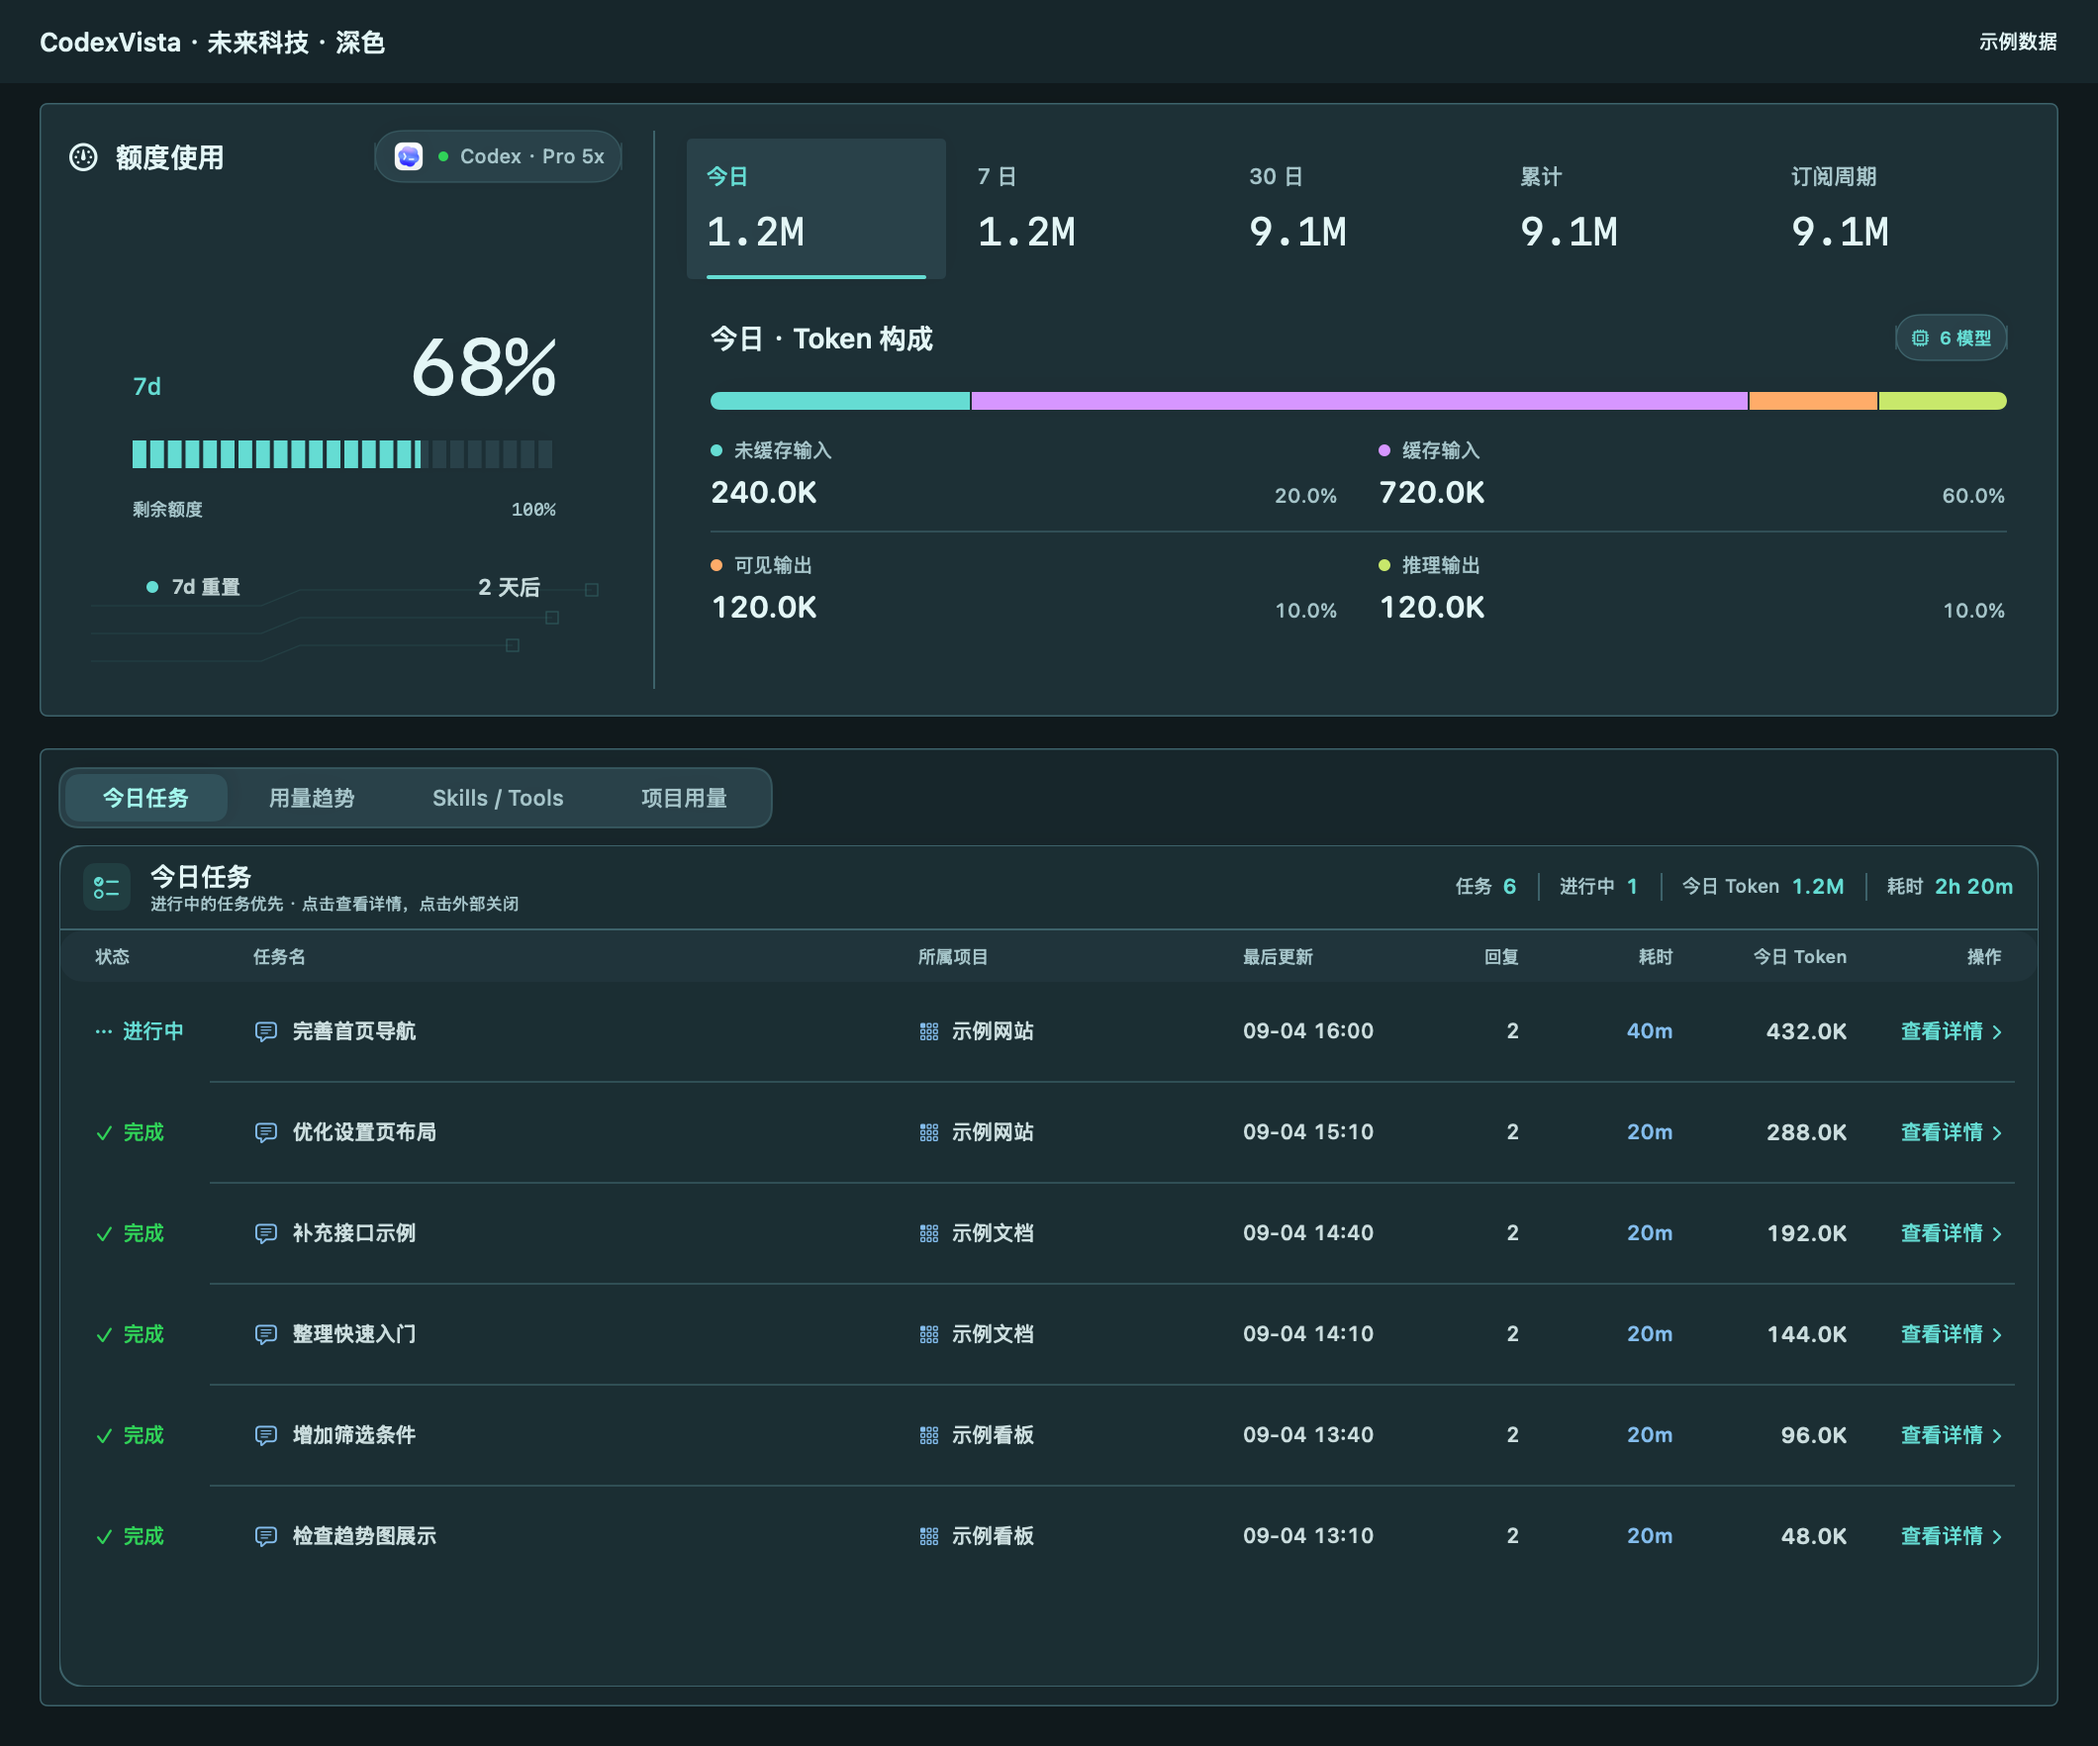
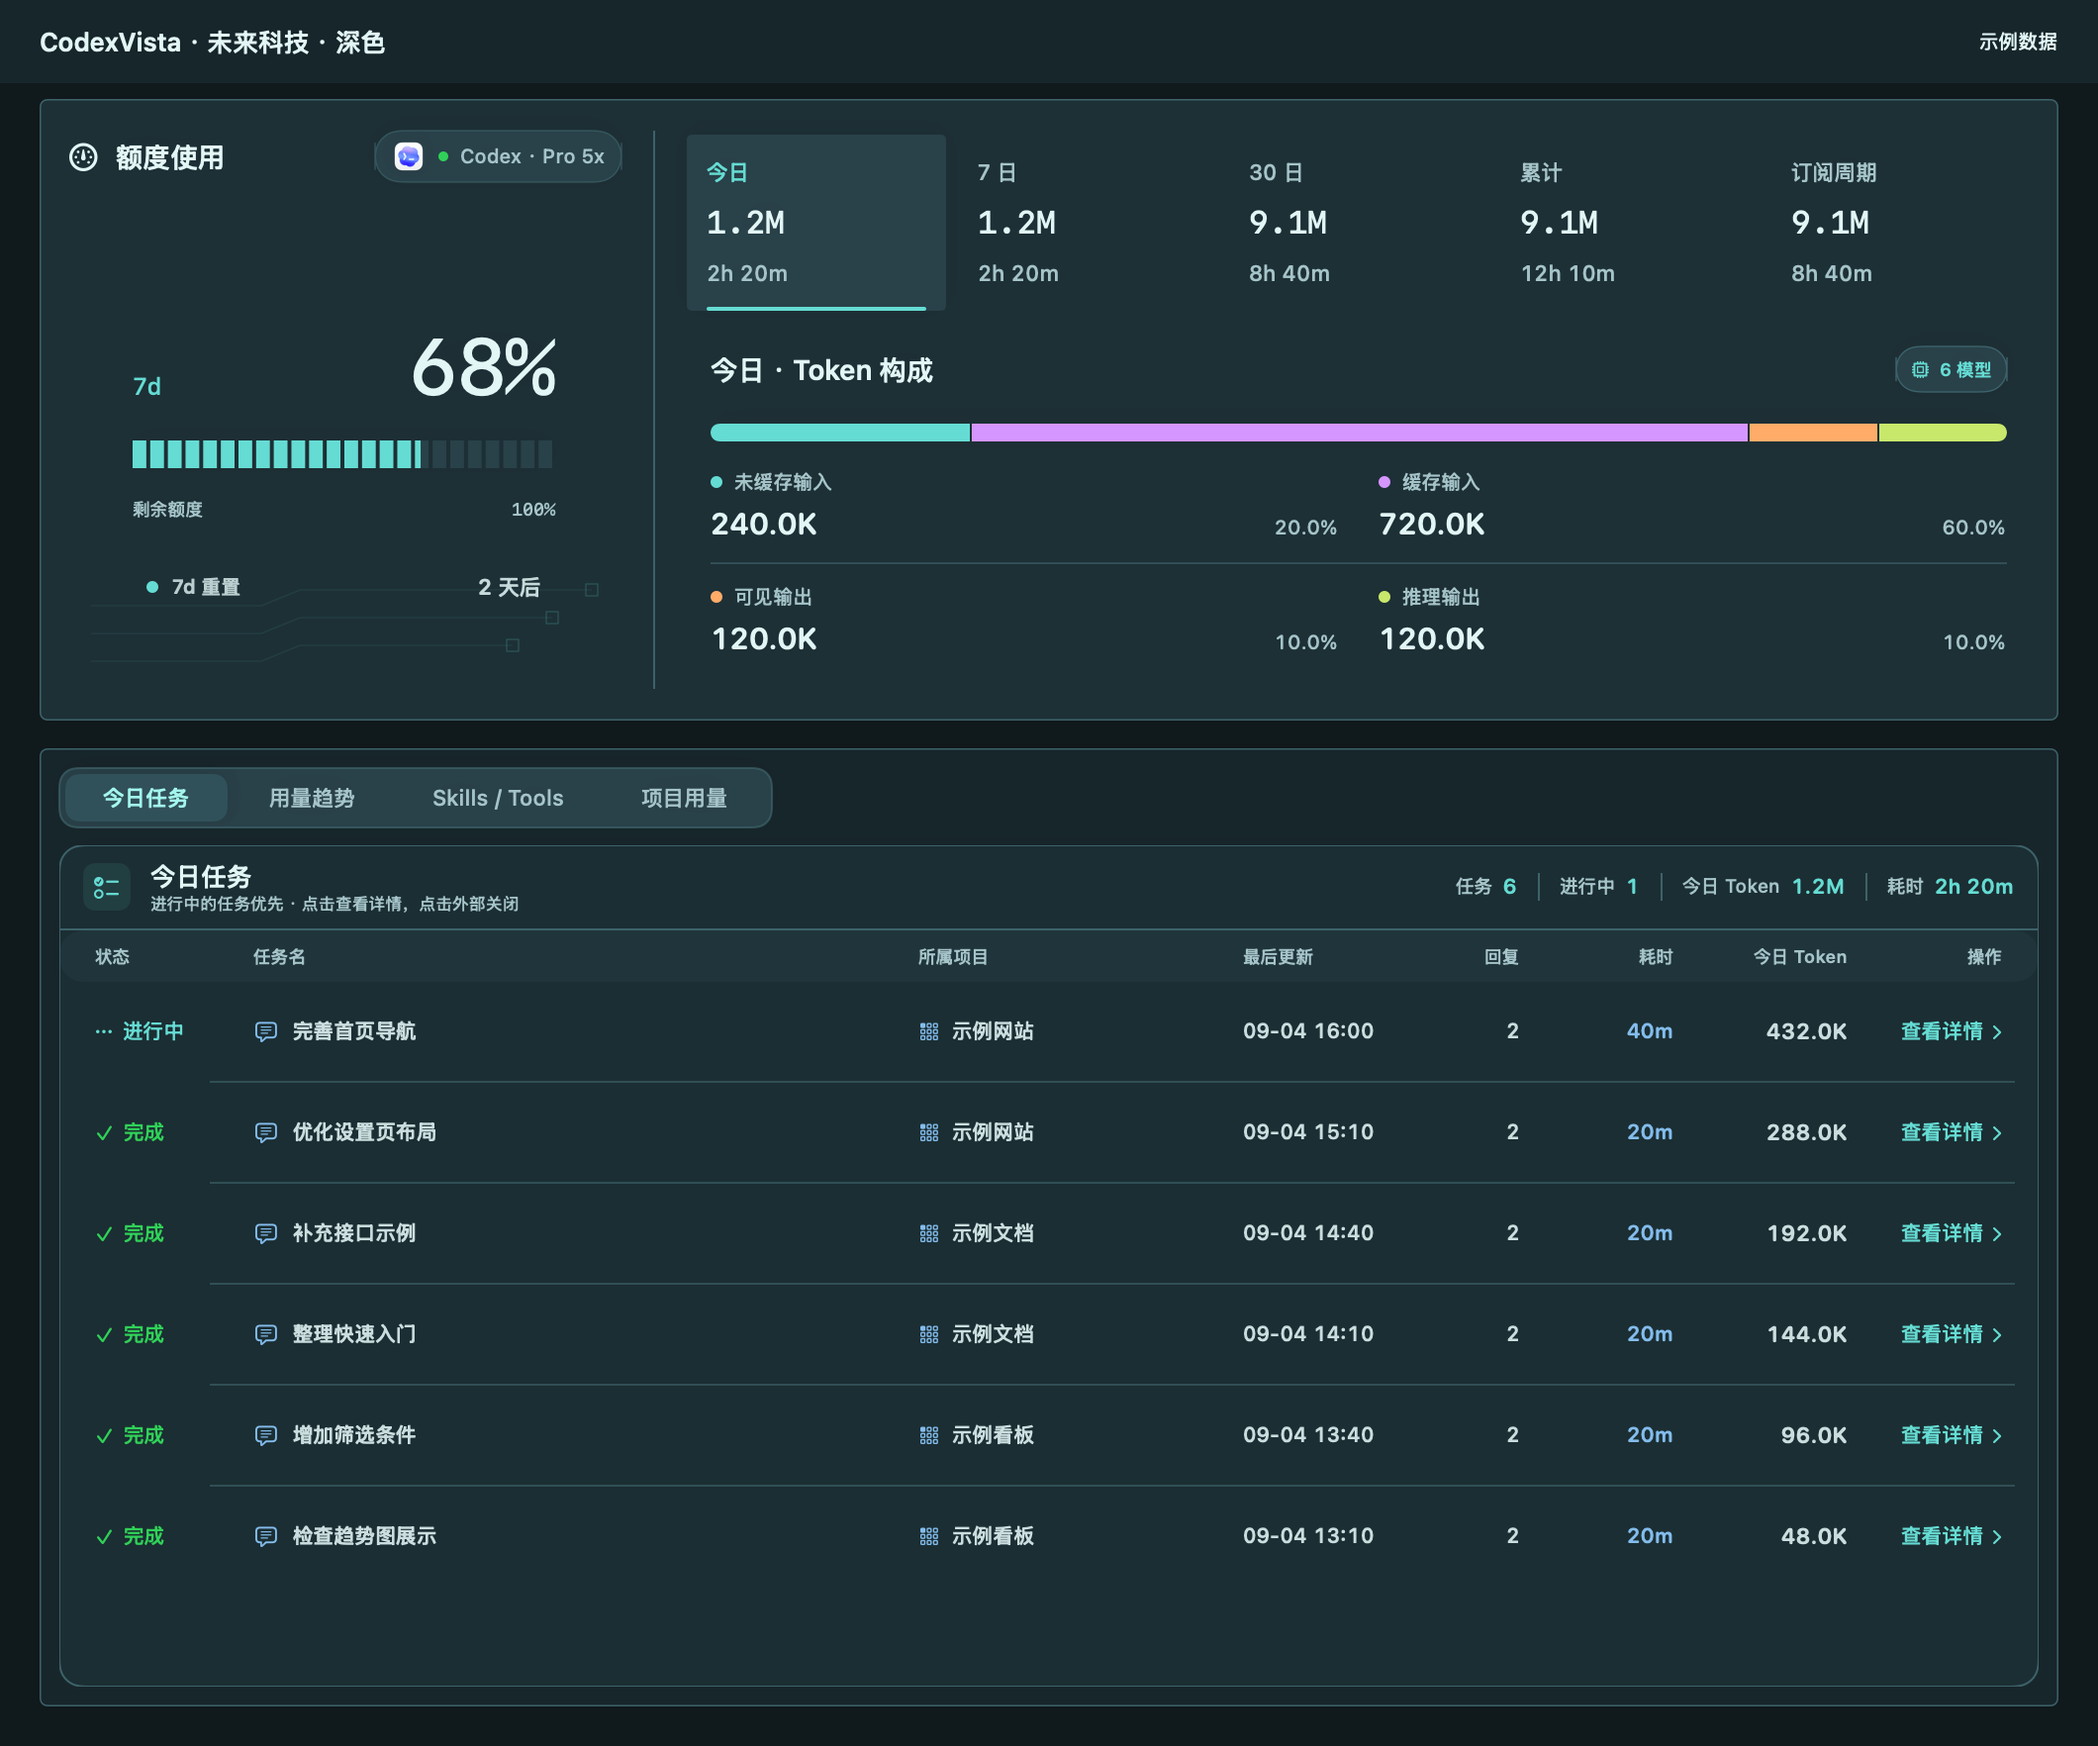
Release CodexVista v1.6.1

diff --git a/script/screenshots/DocumentationFixture.swift b/script/screenshots/DocumentationFixture.swift
@@ -94,12 +94,15 @@ enum DocumentationFixture {
 
     static let snapshot: DashboardSnapshot = {
         let monthly = daily.reduce(0) { $0 + $1.total }
-        let totals = [("today", "今日", 1_200_000), ("sevenDays", "7 日", 1_200_000),
-                      ("thirtyDays", "30 日", monthly), ("allTime", "累计", monthly),
-                      ("subscriptionCycle", "当前订阅周期", monthly)]
-        let periods = totals.map { id, title, total in
+        let totals = [("today", "今日", 1_200_000, 8_400_000),
+                      ("sevenDays", "7 日", 1_200_000, 8_400_000),
+                      ("thirtyDays", "30 日", monthly, 31_200_000),
+                      ("allTime", "累计", monthly, 43_800_000),
+                      ("subscriptionCycle", "当前订阅周期", monthly, 31_200_000)]
+        let periods = totals.map { id, title, total, worktime in
             PeriodUsage(id: id, title: title, total: total, uncachedInput: total / 5,
-                        cachedInput: total * 3 / 5, output: total / 5, reasoning: total / 10)
+                        cachedInput: total * 3 / 5, output: total / 5, reasoning: total / 10,
+                        aiWorktimeMilliseconds: Int64(worktime))
         }
         return DashboardSnapshot(planName: "Pro 5x", updatedText: "刚刚刷新", periods: periods,
             subscriptionCycle: SubscriptionCycle(start: now.addingTimeInterval(-29 * 86_400),

diff --git a/docs/TECHNICAL_ARCHIVE.md b/docs/TECHNICAL_ARCHIVE.md
@@ -1,6 +1,6 @@
 # CodexVista 技术档案
 
-更新日期：2026-09-08
+更新日期：2026-09-11
 
 本文档记录当前代码的架构、统计口径、存储迁移、兼容策略及维护流程。早期设计规格已经归并至此；历史演进仅用于解释决策，当前行为以各章节描述为准。用户功能见 [FEATURES.md](FEATURES.md)，界面与截图维护见 [外观说明](design/README.md) 和 [截图说明](images/README.md)。
 
@@ -571,6 +571,7 @@ xattr -dr com.apple.quarantine /Applications/CodexVista.app
 | 2026-09-07 | 额度重置不足一小时改为分钟级倒计时；新增 GPT-6 Astra 标准 API 等值费用，并统一展示四类 Token 占比与配色 |
 | 2026-09-08 | 今日任务点击后直接打开合并用量与调用详情的独立窗口；任务、项目和回复详情进一步统一公共 Token 组件与紧凑布局 |
 | 2026-09-08 | 用量趋势增加总量及按模型曲线、图例筛选和悬浮分项费用，复用模型聚合与定价规则 |
+| 2026-09-11 | 顶部各统计周期增加回复累计 AI 工作时长；排除 Codex 可视化辅助目录，并将历史工作目录推测记录安全归入唯一匹配的项目 |
 
 ## 20. 文档截图与复现
 

diff --git a/README.md b/README.md
@@ -33,7 +33,7 @@ CodexVista 是第三方本地工具，并非 OpenAI 官方产品。
 
 ## 软件界面
 
-以下图片于 2026-09-04 从当前源码的 SwiftUI / AppKit 组件导出，统一使用匿名示例数据。截图覆盖最新平面统计分组、六款皮肤、模型费用和任务详情；顶部“示例数据”是文档标识。独立悬浮卡展示组件内容，窗口位置和系统标题栏以实际运行为准。生成方法和完整清单见[截图说明](docs/images/README.md)。
+以下图片于 2026-09-11 从当前源码的 SwiftUI / AppKit 组件导出，统一使用匿名示例数据。截图覆盖最新平面统计分组、六款皮肤、模型费用和任务详情；顶部“示例数据”是文档标识。独立悬浮卡展示组件内容，窗口位置和系统标题栏以实际运行为准。生成方法和完整清单见[截图说明](docs/images/README.md)。
 
 ### 今日任务与用量趋势
 

diff --git a/docs/images/README.md b/docs/images/README.md
@@ -1,6 +1,6 @@
 # 文档截图与复现
 
-更新日期：2026-09-04。README、功能说明和外观说明共用本目录的图片；当前图片来自工作区的 SwiftUI / AppKit 组件，使用固定日期的匿名示例数据，不包含真实任务、项目路径、会话内容或本机用量。
+更新日期：2026-09-11。README、功能说明和外观说明共用本目录的图片；当前图片来自工作区的 SwiftUI / AppKit 组件，使用固定日期的匿名示例数据，不包含真实任务、项目路径、会话内容或本机用量。
 
 ## 一次性导出
 
